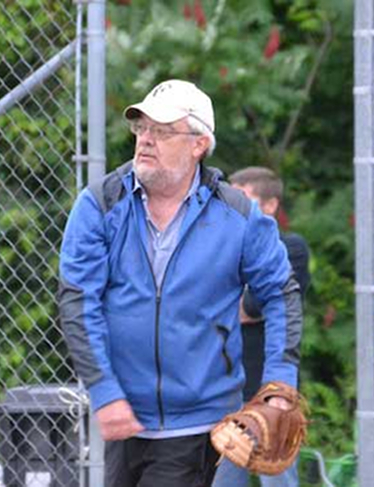
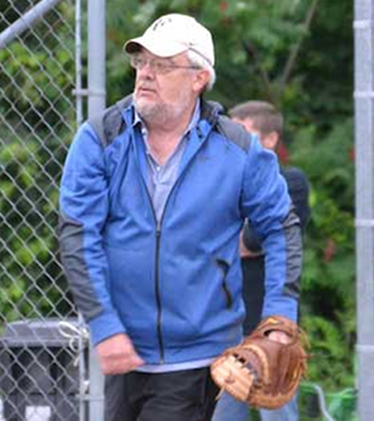
Aligned and formated images.

diff --git a/src/ImageSection.js b/src/ImageSection.js
@@ -1,16 +1,21 @@
 import React from 'react';
 import {Card, CardMedia, CardTitle} from 'material-ui/Card';
 
+const imgStyle = {
+  maxHeight: "650px",
+  maxWidth: "500px",
+  minWidth: "0px"
+};
+
 const ImageSection = (props) => {
   console.log(props.selectedIndex)
   let selectedImage = props.data[props.selectedIndex].image;
-  console.log(selectedImage)
   return (
     <Card>
       <CardMedia
         overlay={<CardTitle title={selectedImage.caption} subtitle={selectedImage.subcaption} />}
       >
-        <img src={selectedImage.src} alt={selectedImage.subcaption} />
+        <img src={selectedImage.src} alt={selectedImage.subcaption} style={imgStyle} />
       </CardMedia>
     </Card>
   );

diff --git a/src/LowerContent.js b/src/LowerContent.js
@@ -18,9 +18,7 @@ class LowerContent extends Component {
     return (
       <div id="learn-more" className="lowerContent">
         <div className="imageContainer">
-          <span style={{float: "right"}}>
-            <ImageSection data={stepper_data} selectedIndex={this.state.selected}/>
-          </span>
+          <ImageSection data={stepper_data} selectedIndex={this.state.selected}/>
         </div>
         <div className="stepContainer">
           <StepSection data={stepper_data} setParentState={this.setIndex.bind(this)}/>

diff --git a/src/LowerContent.css b/src/LowerContent.css
@@ -6,7 +6,11 @@
 .lowerContent > .imageContainer {
   width: 48%;
   float: left;
-  display: flex;
+  align-self: center;
+  align-content: center;
+  padding-top: 21px;
+  max-width: 500px;
+  min-width: 0px;
 }
 
 .lowerContent > .stepContainer {
